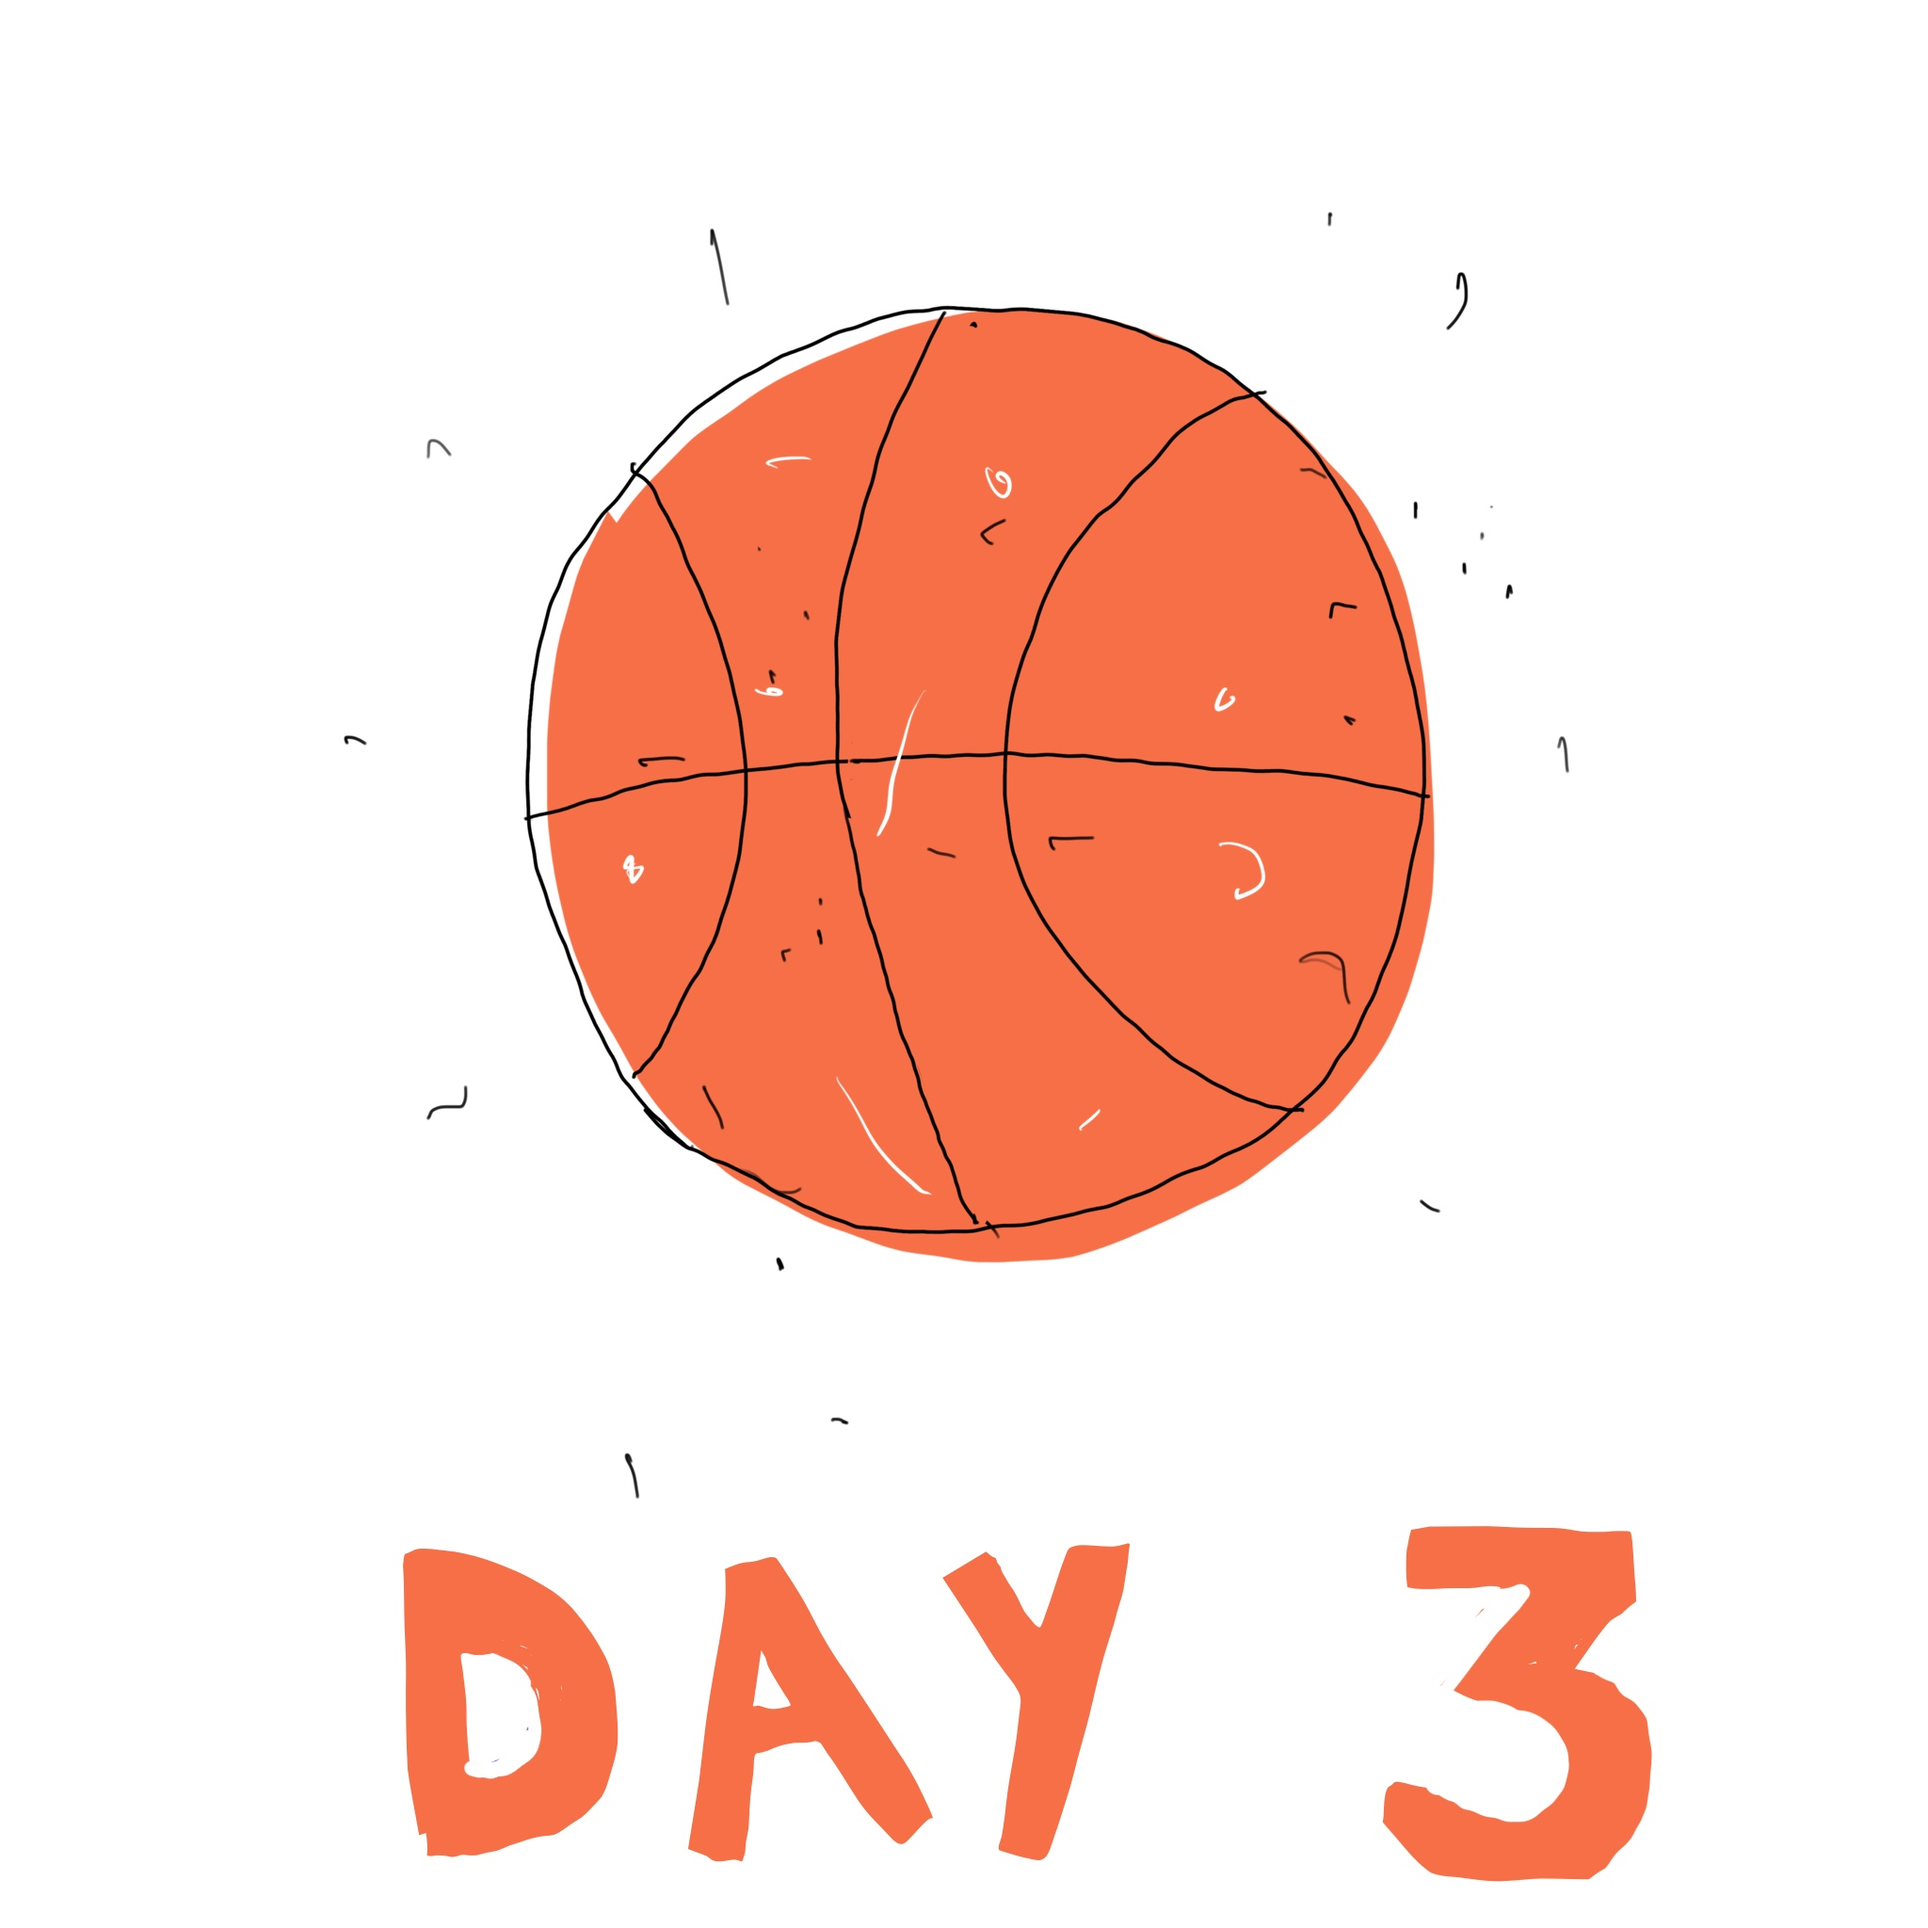
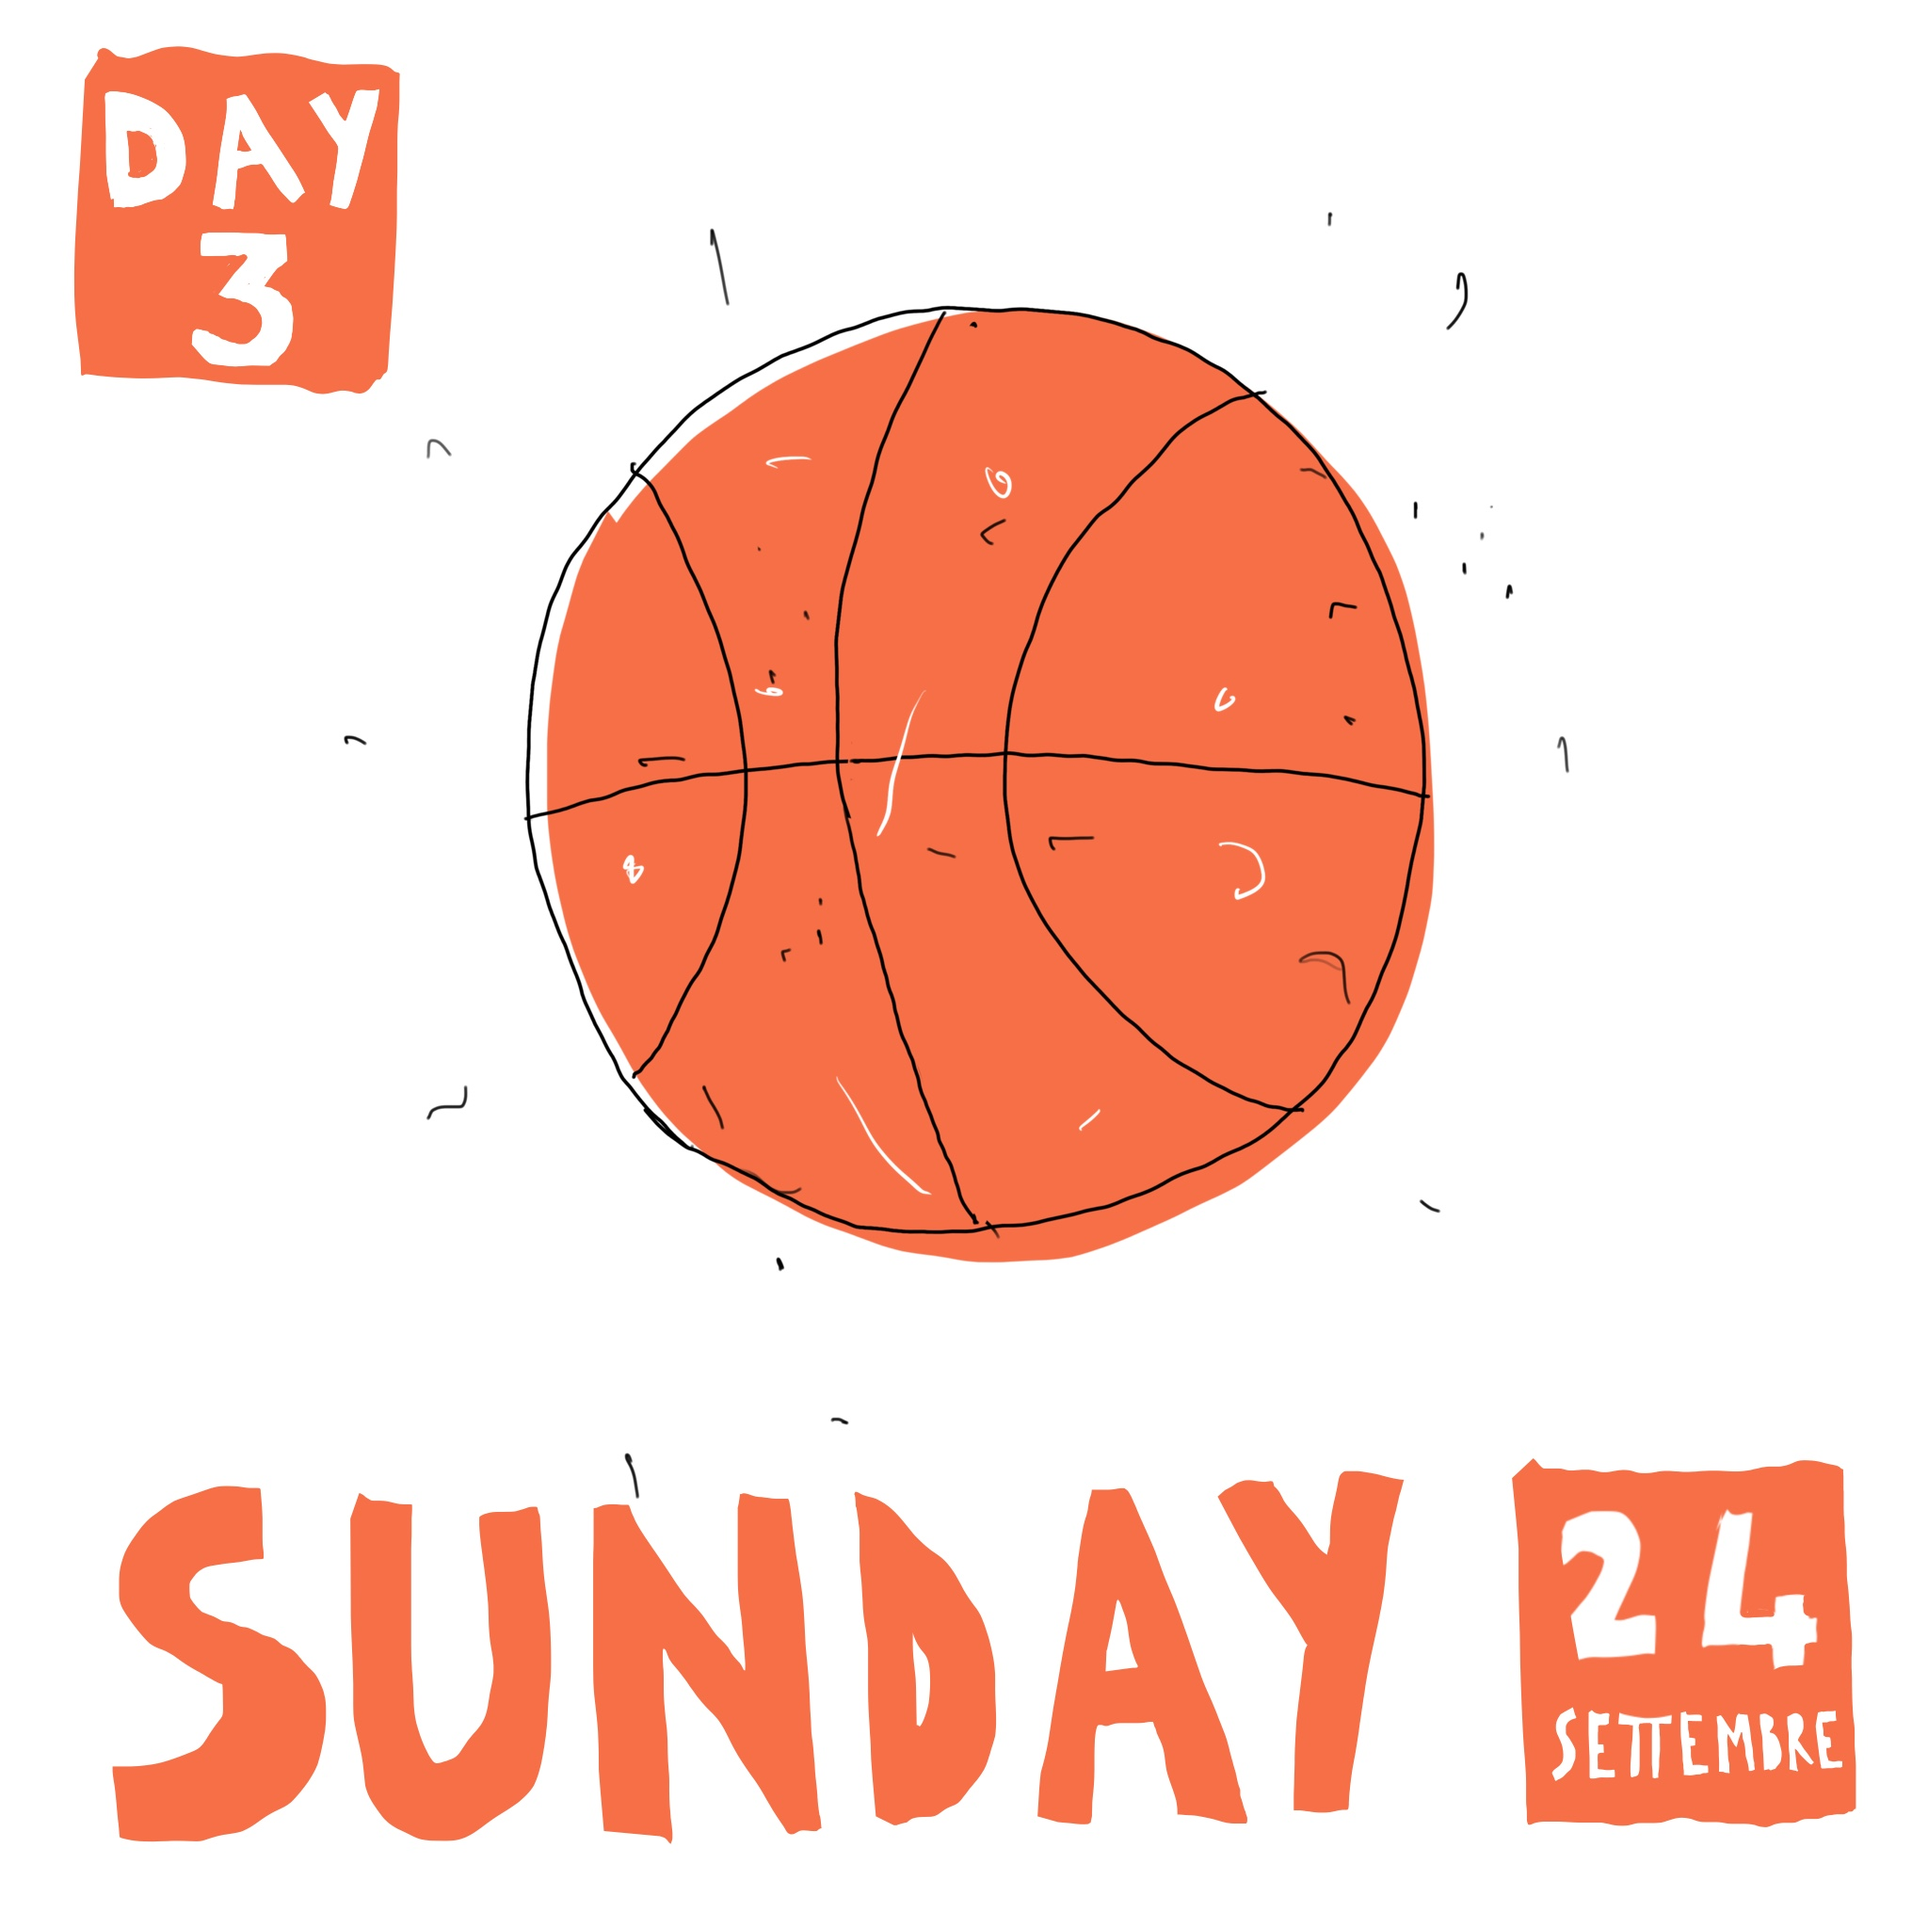
changed day thumbnails and copywriting corrections

Changed region(s): [[0.0625, 0.75, 0.9688, 1.0], [0.0312, 0.0, 0.2188, 0.2188]]

diff --git a/src/pages/DayC.jsx b/src/pages/DayC.jsx
@@ -11,6 +11,9 @@ export default function DayC() {
 						<p className="day-title">REGOLAMENTO</p>
 						<br />
 						<p className="day-txt-bold">SURF MECCANICO</p>
+						<p className="day-txt-reg"> Day 1 - dalle 18:00</p>
+						<p className="day-txt-reg"> Day 2 - dalle 15:00</p>
+						<p className="day-txt-reg"> Day 3 - dalle 12:00</p>
 						<p className="contest-txt">
 							Contest a iscrizione gratuita - unico obbligo essere follower
 							delle pagina instagram
@@ -39,6 +42,9 @@ export default function DayC() {
 						</p>
 						<br />
 						<p className="day-txt-bold">SKATE TRICK</p>
+						<p className="day-txt-reg"> Day 1 - dalle 18:00</p>
+						<p className="day-txt-reg"> Day 2 - dalle 16:00</p>
+						<p className="day-txt-reg"> Day 3 - dalle 12:00</p>
 						<p className="day-txt-reg">
 							Contest powered by
 							<span className="day-txt-bolder"> THE SHIFTY CREW</span>
@@ -56,6 +62,7 @@ export default function DayC() {
 						</p>
 						<br />
 						<p className="day-txt-bold">Basket 2 vs 2 misto</p>
+						<p className="day-txt-reg"> Day 3 - dalle 15:00</p>
 						<p className="contest-txt">
 							• Il torneo si terrà su asfalto e su un campo non regolamentare ma
 							<span className="day-txt-bolder"> “street”</span>. Il torneo non è
@@ -162,6 +169,7 @@ export default function DayC() {
 						</p>
 						<br />
 						<p className="day-txt-bold">Contest 3 punti</p>
+						<p className="day-txt-reg"> Day 3 - dalle 15:00</p>
 						<p className="contest-txt">
 							Vince la gara chi{" "}
 							<span className="day-txt-bolder">in 90 secondi di tempo</span>{" "}
@@ -183,6 +191,7 @@ export default function DayC() {
 						</p>
 						<br />
 						<p className="day-txt-bold">BEER MILE</p>
+						<p className="day-txt-reg"> Day 2 - dalle 20:00</p>
 						<p className="contest-txt">
 							É una corsa non competitiva{" "}
 							<span className="day-txt-bolder"> aperta a tutti </span>. Si

diff --git a/src/pages/Day3.jsx b/src/pages/Day3.jsx
@@ -11,6 +11,28 @@ export default function Day3() {
 					<div className="text-wrap">
 						<p className="day-title">24 SETTEMBRE 2023</p>
 						<p className="day-txt-reg">APERTURA ORE 12.00</p>
+						<p className="day-txt-reg">
+							Apertura{" "}
+							<span className="day-txt-bolder">Contest Mechanical Surf</span>{" "}
+							ore 12:00
+						</p>
+						<p className="day-txt-reg">
+							Apertura <span className="day-txt-bolder">Dunk Contest</span> ore
+							12:00
+						</p>
+						<p className="day-txt-reg">
+							Apertura{" "}
+							<span className="day-txt-bolder">Contest Best Trick</span> ore
+							12:00
+						</p>
+						<p className="day-txt-reg">
+							Apertura <span className="day-txt-bolder">Basket 2 vs 2</span> ore
+							15:00
+						</p>
+						<p className="day-txt-reg">
+							Apertura <span className="day-txt-bolder">Basket tiri da 3</span>{" "}
+							ore 15:00
+						</p>
 						<br />
 						<p className="day-txt-bold">HOLI Party - DENBOW Edition</p>
 						<p className="day-txt-reg">by PUPPETS FAMILY</p>

diff --git a/src/pages/Day2.jsx b/src/pages/Day2.jsx
@@ -11,9 +11,19 @@ export default function Day2() {
 					<div className="text-wrap">
 						<p className="day-title">23 SETTEMBRE 2023</p>
 						<p className="day-txt-reg">APERTURA ORE 15:00</p>
+						<p className="day-txt-reg">
+							Apertura{" "}
+							<span className="day-txt-bolder">Contest Mechanical Surf</span>{" "}
+							ore 15:00
+						</p>
+						<p className="day-txt-reg">
+							Apertura <span className="day-txt-bolder">Dunk Contest </span> ore
+							15:00
+						</p>
 						<br />
 						<p className="day-txt-bold">SKATE CONTEST “Skate trick” </p>
 						<p className="day-txt-reg">Ramp Trick </p>
+						<p className="day-txt-reg">Apertura ore 16:00</p>
 						<p className="day-txt-bolder">PREMIAZIONI BY LOBSTER</p>
 						<p className="day-txt-reg">powered by SHIFTY</p>
 						<br />

diff --git a/src/pages/Day1.jsx b/src/pages/Day1.jsx
@@ -11,6 +11,20 @@ export default function Day1() {
 					<div className="text-wrap">
 						<p className="day-title">22 SETTEMBRE 2023</p>
 						<p className="day-txt-reg">APERTURA ORE 18:00</p>
+						<p className="day-txt-reg">
+							Apertura{" "}
+							<span className="day-txt-bolder">Contest Mechanical Surf</span>{" "}
+							ore 18:00
+						</p>
+						<p className="day-txt-reg">
+							Apertura <span className="day-txt-bolder"> Dunk Contest</span> ore
+							18:00
+						</p>
+						<p className="day-txt-reg">
+							Apertura{" "}
+							<span className="day-txt-bolder"> Contest Best Trick</span> ore
+							18:00
+						</p>
 						<br />
 						<p className="day-txt-reg">Dalle 18:00 alle 22:00</p>
 						<p className="day-txt-bold">DJSET</p>
